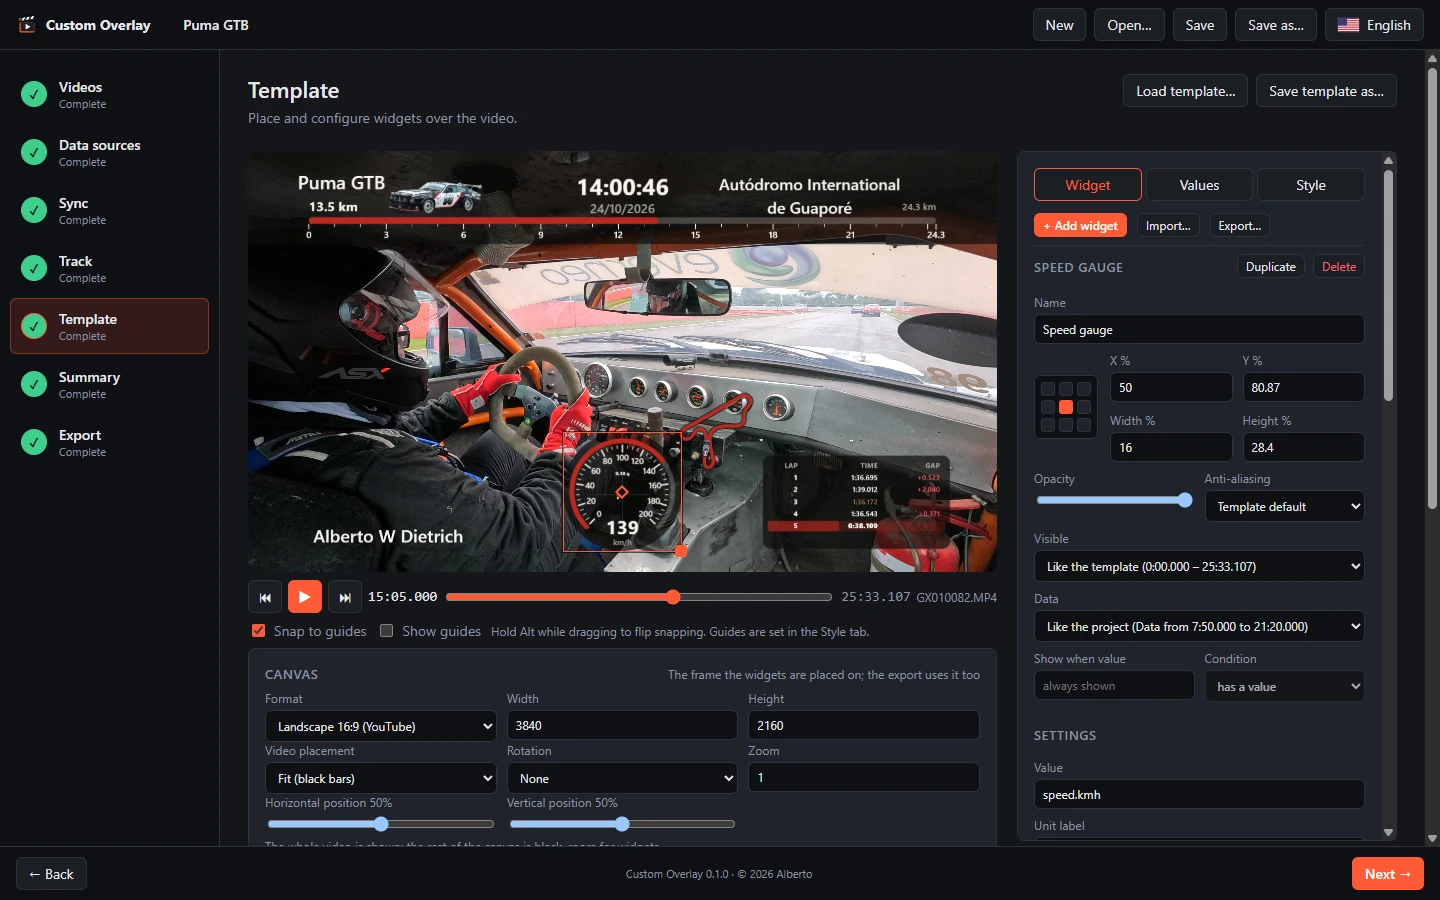
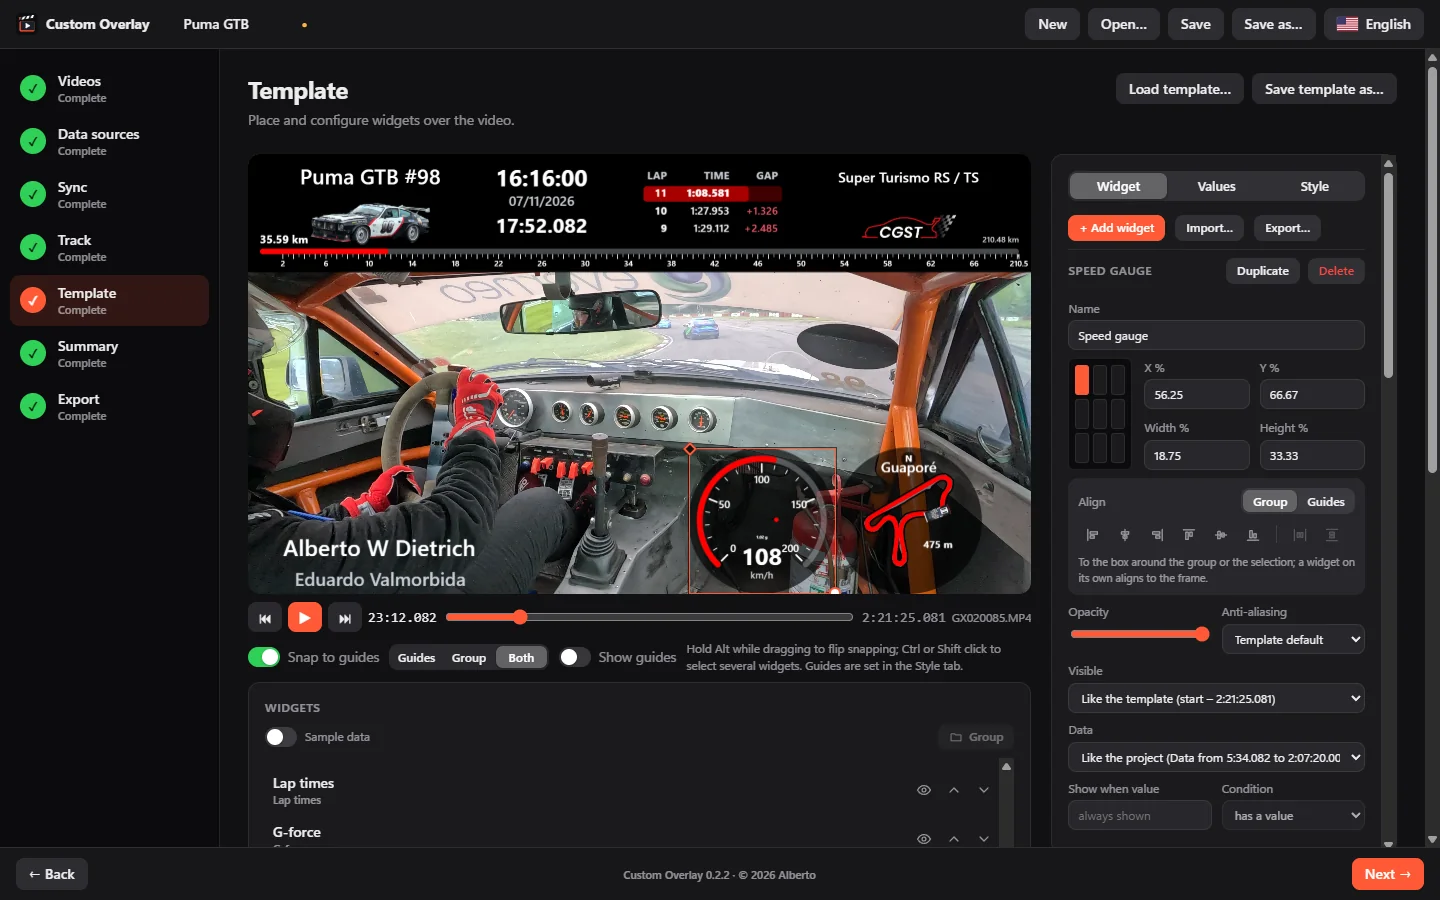
Update the README to the new look, with new screenshots and recordings
The screenshot and the step recordings now show the 0.2 look, recorded
from the desktop app on a Super Turismo RS session at Guaporé. The text
covers selecting missing files again, web app updates, where web exports
are saved, and drops the full range claim for web exports (they are
tagged limited range).

diff --git a/README.md b/README.md
@@ -9,7 +9,7 @@ the final video or a transparent image sequence with only the widgets.
 [Download](https://github.com/albertowd/custom-overlay/releases/latest) ·
 [Discussions](https://github.com/albertowd/custom-overlay/discussions)
 
-![Custom Overlay editing a race overlay: speed gauge, track map, lap times and distance bar over a GoPro onboard video](docs/media/screenshot.webp)
+![Custom Overlay editing a race overlay: speed gauge, track map, lap times and lap bar over a GoPro onboard video](docs/media/screenshot.webp)
 
 - **Any camera, any logger.** GoPro telemetry (GPS, accelerometer, gyroscope) is read straight
   from the video; DJI `.SRT` subtitles and RaceChrono CSV exports are supported too.
@@ -38,17 +38,20 @@ info_ → _Run anyway_) and macOS Gatekeeper (right-click the app → _Open_) wa
 Each release lists the `SHA256SUMS.txt` of its files.
 
 When a newer version is out, the app offers to download it at start: now, later, or never for
-that version.
+that version. The web app offers to reload into its new version.
 
 ### Web app
 
 The web app runs in the browser, on computers, phones and tablets, and can be installed as an app
 (PWA). It edits projects like the desktop app, with files picked or dropped into the page.
 
-- **Final video**: encoded by the browser on the device's own hardware, written to a file you
-  pick (Chrome and Edge on a computer) or downloaded when done (phones, other browsers).
-- **Transparent PNG sequence**: into a folder in Chrome and Edge, as a zip download in other
-  browsers.
+- **Final video**: encoded by the browser on the device's own hardware, written to a file picked
+  when the export starts (Chrome and Edge on a computer) or downloaded when done (phones, other
+  browsers).
+- **Transparent PNG sequence**: into a folder picked when the export starts in Chrome and Edge, as
+  a zip download in other browsers.
+- **Projects**: a browser cannot open files by their path, so open a project together with its
+  videos and data files, or select them again from their cards.
 
 #### Browser limits
 
@@ -61,8 +64,7 @@ The web app tells when one of these applies, when it opens and in the Videos and
 - **Codecs and hardware.** What can be decoded and encoded depends on the browser and the device's
   graphics hardware: a codec or resolution it cannot encode falls back to H.264, or needs a smaller
   resolution; a video it cannot decode cannot be exported there.
-- **Colour.** 8-bit SDR (Rec.709) only, tagged full range; the 10-bit and HDR settings need the
-  desktop app.
+- **Colour.** 8-bit SDR (Rec.709) only; the 10-bit and HDR settings need the desktop app.
 - **Sound.** Always re-encoded (no copy), as AAC, or as Opus where the browser has no AAC encoder
   (some video editors do not read Opus). A sound the browser cannot decode is exported silent.
 - **Scaling and disk.** The scaling filters (Lanczos, FSR…), the slow disk options and the choice
@@ -85,14 +87,14 @@ added as a data source that follows the video.
 No video? Skip this step to export only the widgets, as a transparent image sequence, to overlay
 in your video editor.
 
-![Creating a project and adding a GoPro video with its chapter](docs/media/1-videos.webp)
+![Creating a project and adding a GoPro video with its chapters](docs/media/1-videos.webp)
 
 ### 2. Data sources
 
 Add RaceChrono CSV exports (v2 / v3), DJI `.SRT` subtitles, or videos used only for their
 telemetry. Optional when the video already has telemetry.
 
-![The telemetry channels embedded in the GoPro chapters](docs/media/2-sources.webp)
+![Adding a RaceChrono session next to the telemetry embedded in the GoPro chapters](docs/media/2-sources.webp)
 
 ### 3. Sync
 
@@ -106,7 +108,7 @@ Every video and data source is placed on the timeline **automatically** when it 
 Results the app is sure about are marked as synced; anything else is left for you to review. Play
 the video and look at the speed chart, nudge by a frame, 0.1 s or 1 s, or pick another candidate.
 
-![Reviewing the sync of the second chapter on the speed chart](docs/media/3-sync.webp)
+![Reviewing the sync of the second chapter: its candidates, and its speed on the chart](docs/media/3-sync.webp)
 
 ### 4. Track
 
@@ -167,7 +169,7 @@ then the resolution, frame rate and colour, the encoder preset, and the scaling.
 with live progress, telling whether drawing the widgets or ffmpeg (decoding, encoding, the disk)
 holds it back, and you can keep working meanwhile.
 
-![Setting the export range and output, then starting the export](docs/media/7-export.webp)
+![Setting the export range and output, then exporting](docs/media/7-export.webp)
 
 ## Widgets
 
@@ -228,7 +230,9 @@ The last used export settings are saved in the project.
 - **Project** (`*.overlay.json`): videos and data sources with their positions on the timeline,
   output format, colour palette, track lines, export settings, and the template (inline or a link
   to a template file). Paths are stored relative to the project file, so a project can be moved
-  together with its media.
+  together with its media. A video or data file that cannot be found can be selected again from its
+  card: the project keeps its sync, template and settings, and the app checks that it is the same
+  file.
 - **Template** (`*.template.json`): widgets only. It is independent of any video, so the same
   template can be applied to many sessions.
 - **Widget** (`*.widget.json`), **values** (`*.values.json`) and **track lines**
